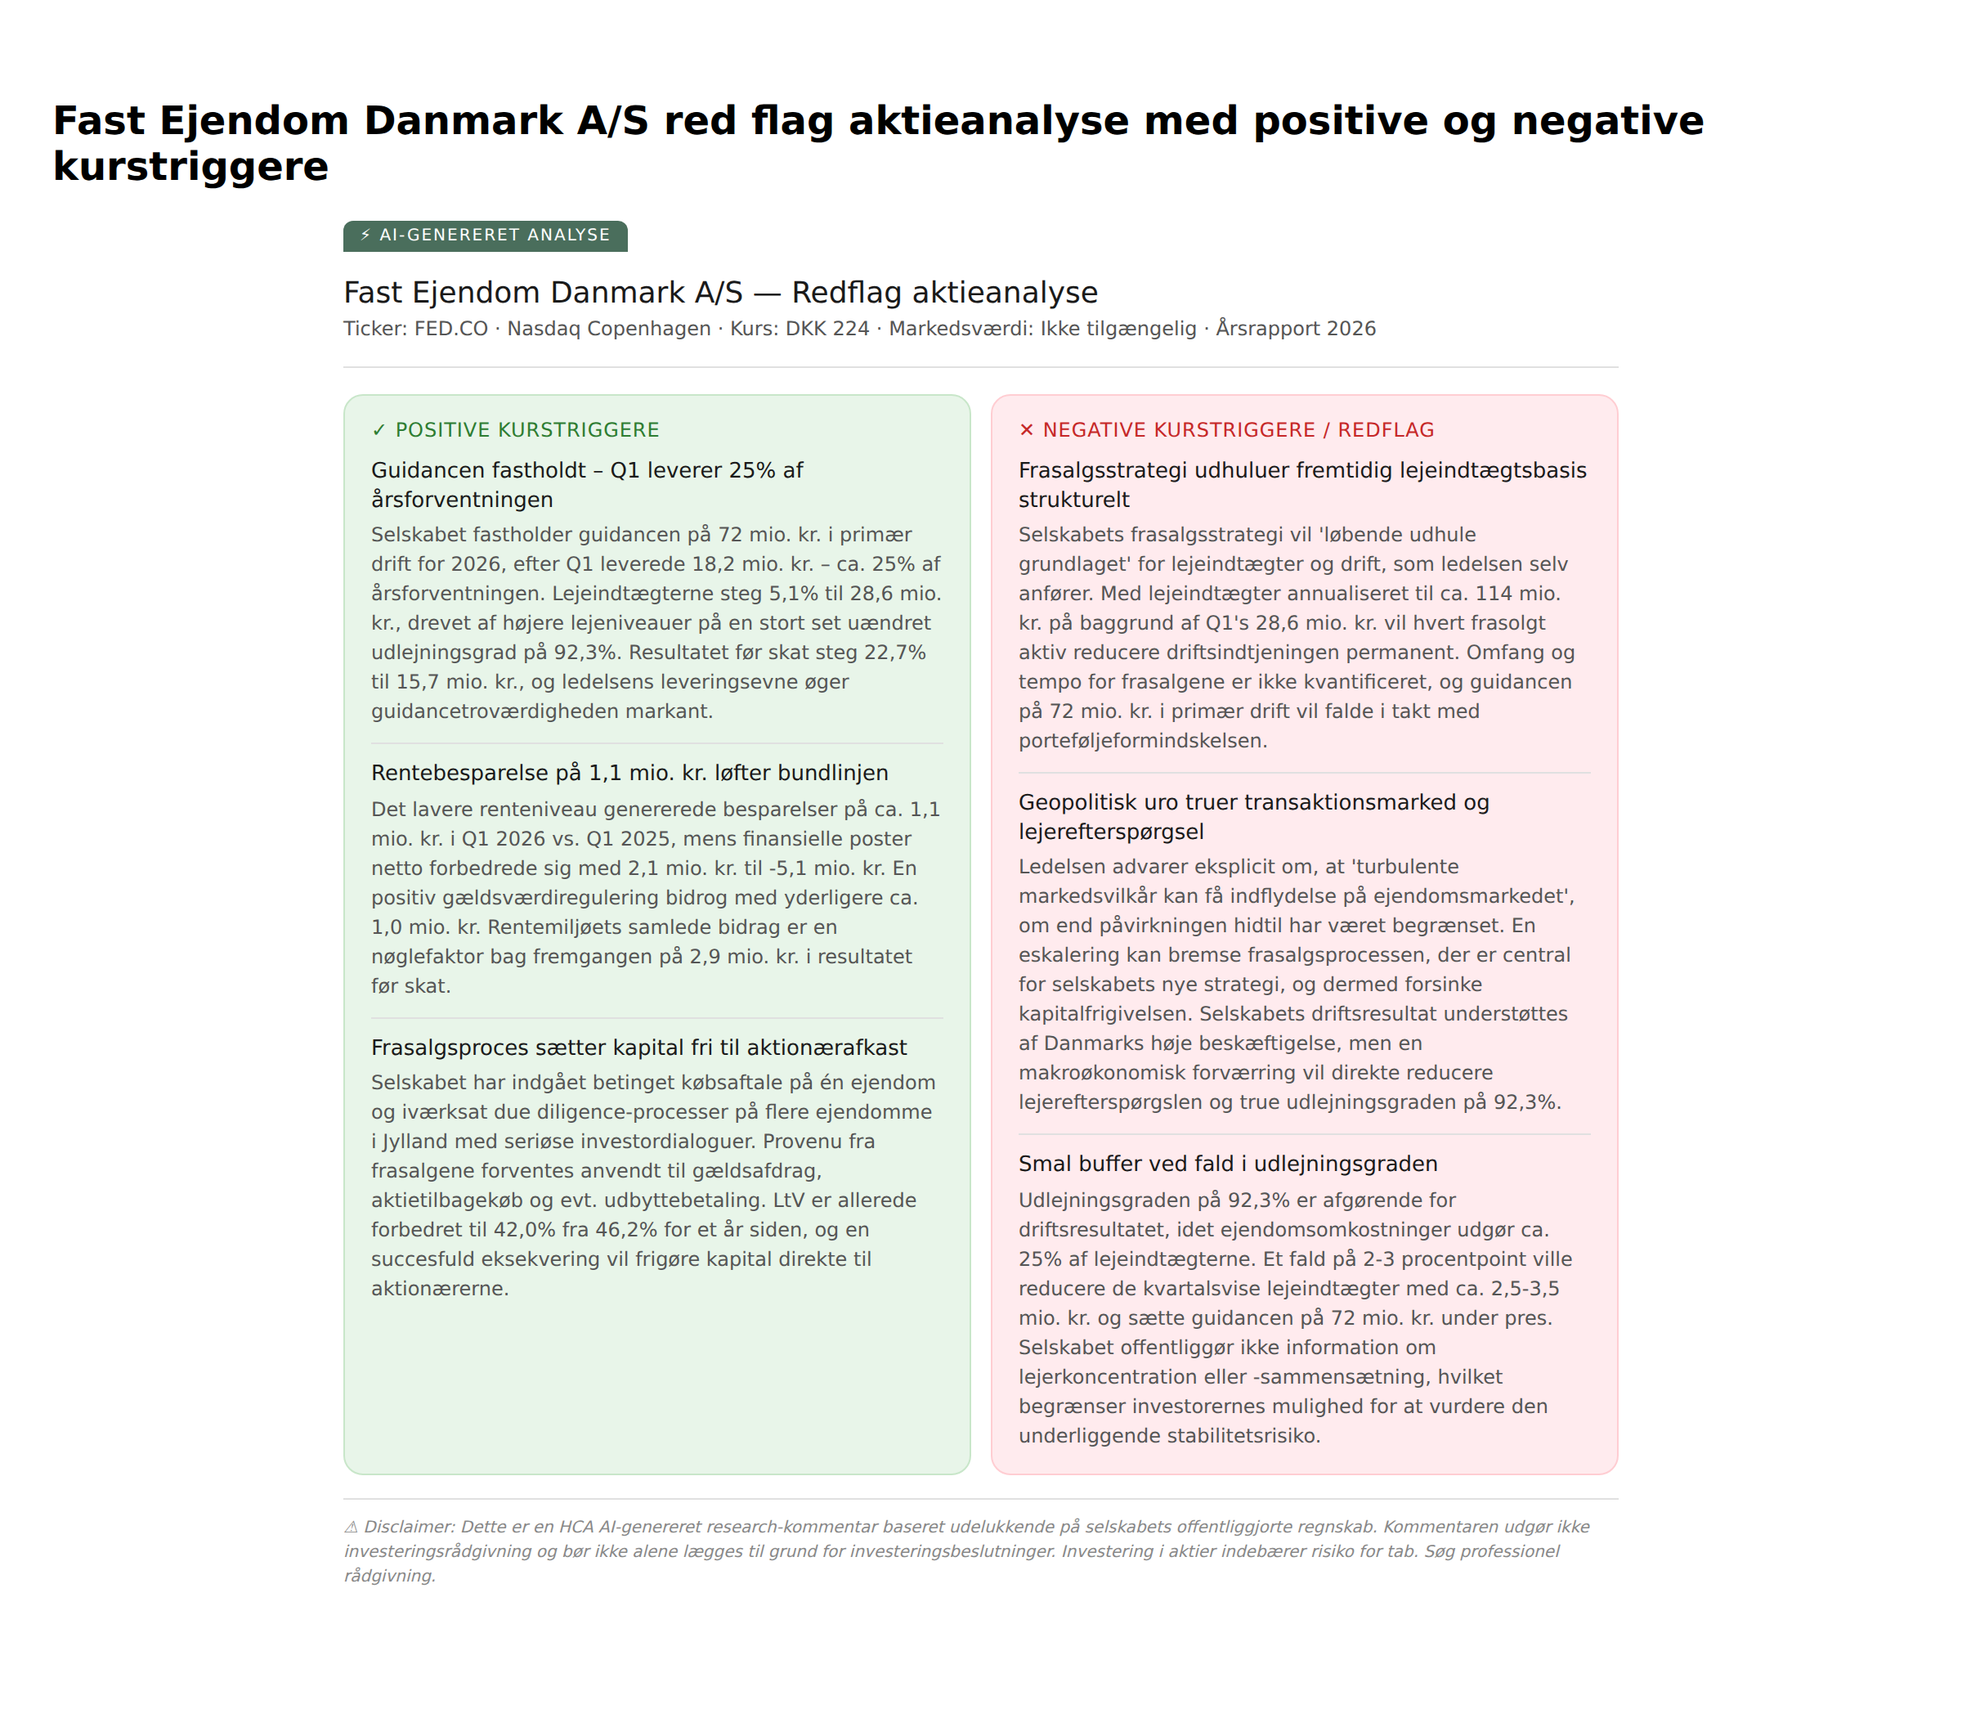
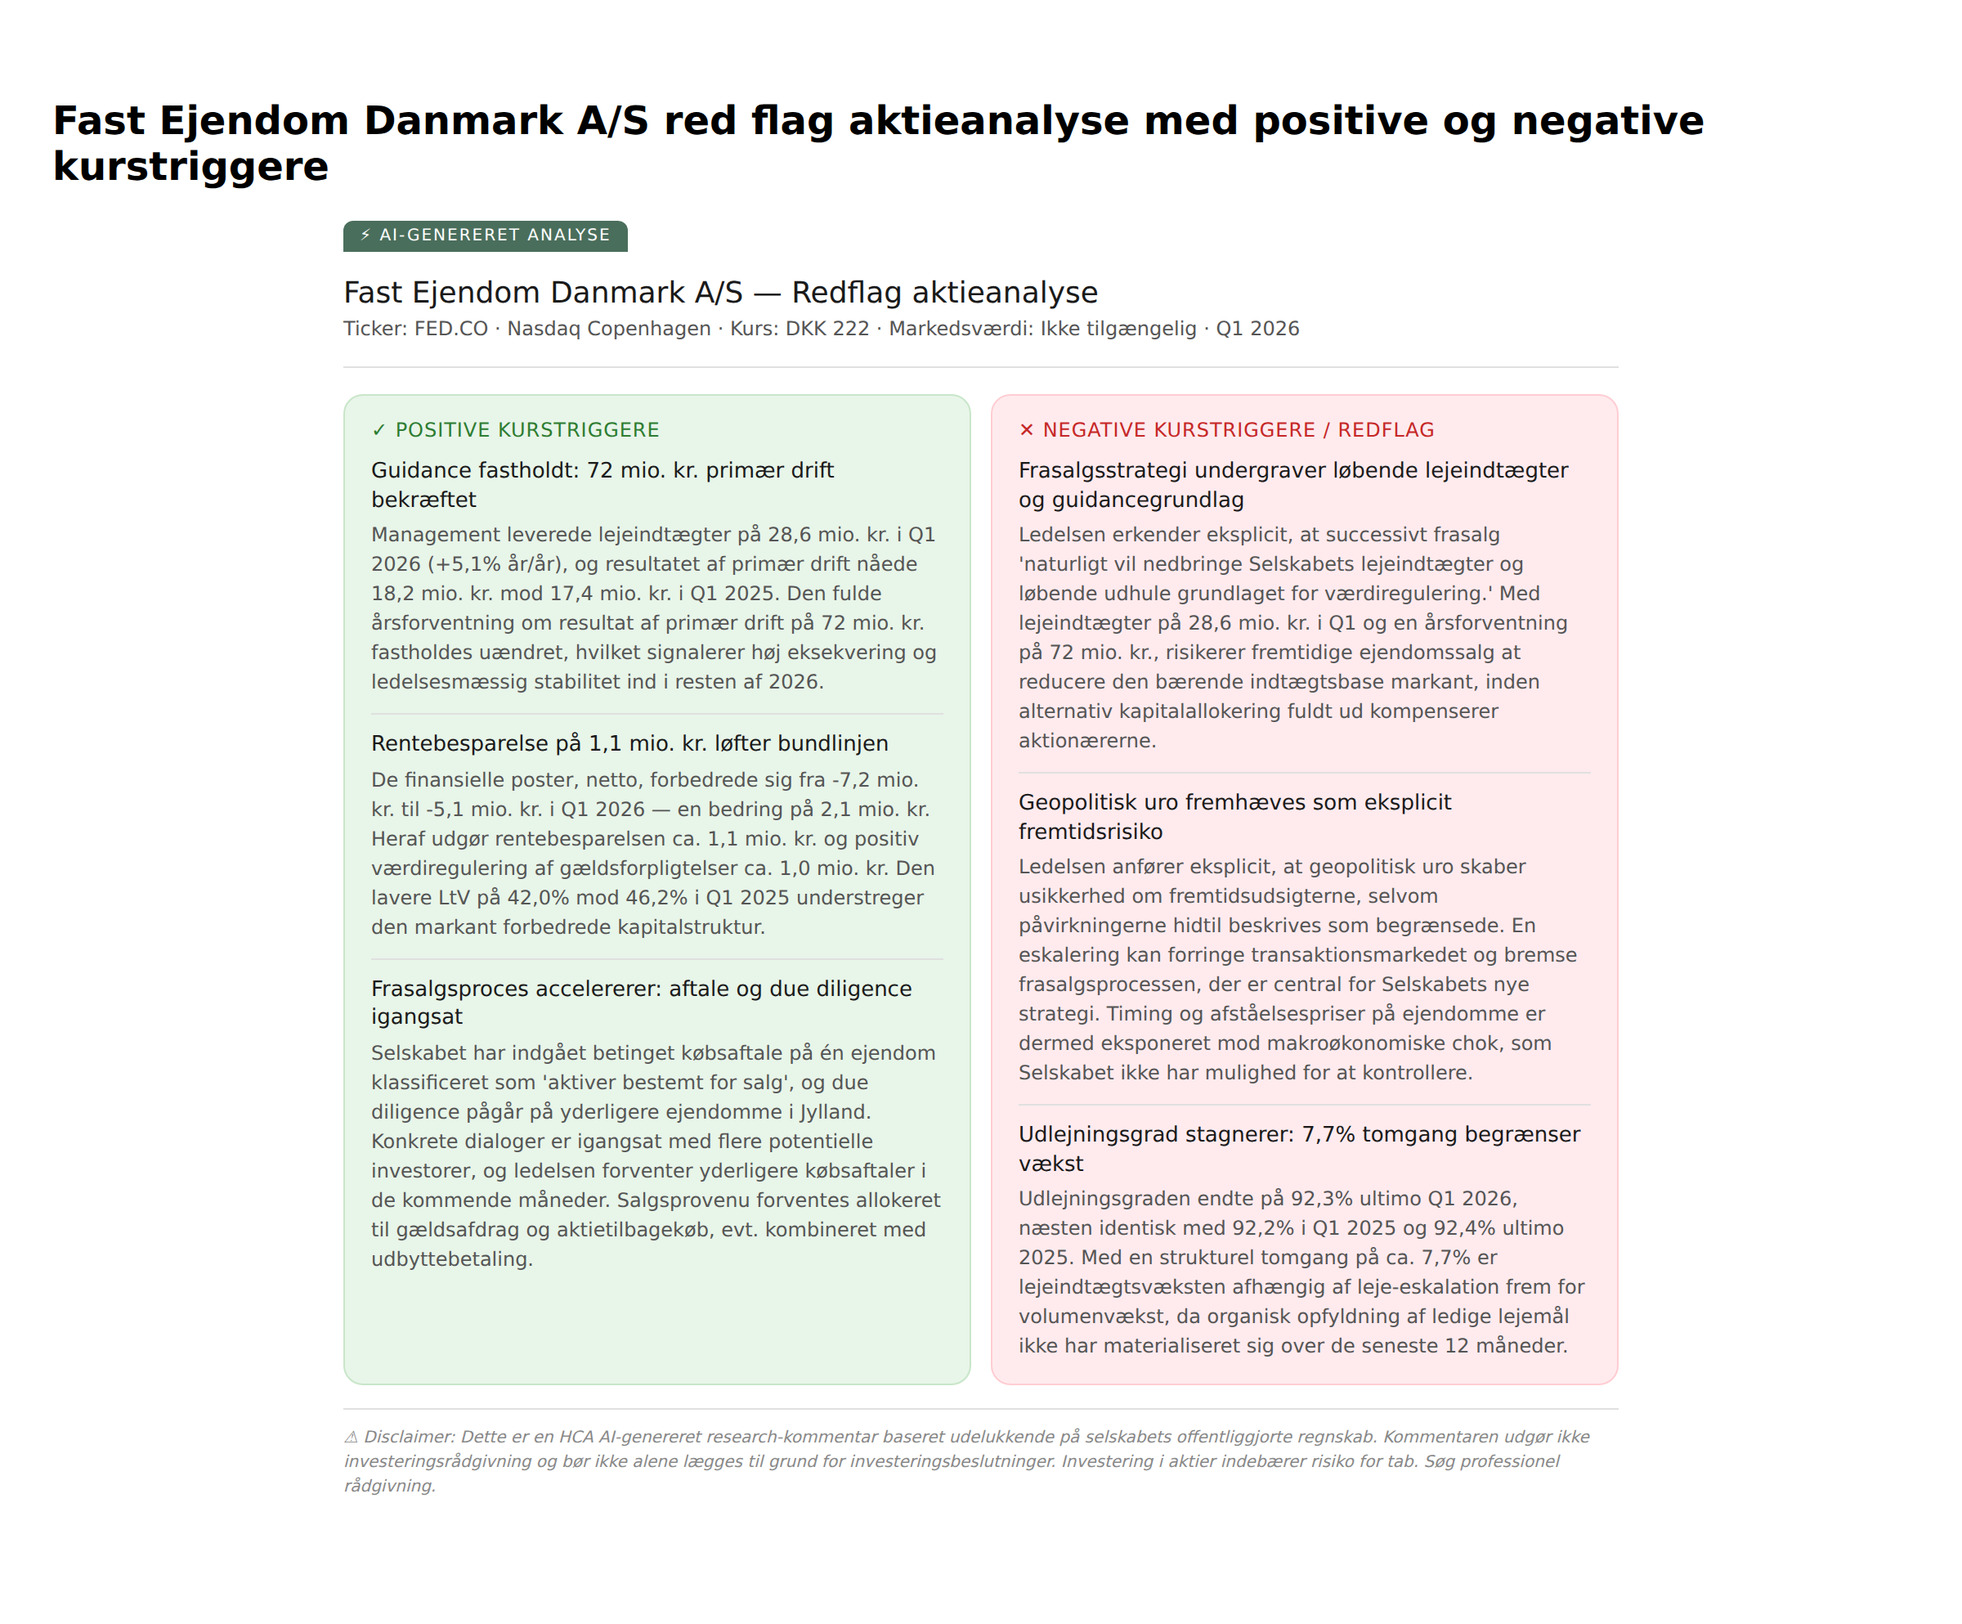
redflag: 2026-04-23 (1 releases)
Fast Ejendom Danmark A/S (FED.CO) — Q1 2026 delårsrapport.

https://claude.ai/code/session_01FcqMH7NUCzhGjX6XhUJPYg

Changed region(s): [[0.0312, 0.0624, 0.875, 0.9366]]

diff --git a/output/2026-04-23/FED_CO_redflag_2026-04-23.html b/output/2026-04-23/FED_CO_redflag_2026-04-23.html
@@ -1,0 +1,92 @@
+<h2 class="sr-only">Fast Ejendom Danmark A/S red flag aktieanalyse med positive og negative kurstriggere</h2>
+<style>
+  .rf-wrap { max-width: 780px; margin: 0 auto; font-family: var(--font-sans); padding: 1rem 0; }
+  .rf-badge { display: inline-block; background: #4a6e5c; color: #fff; font-size: 10px; font-weight: 500; letter-spacing: 1px; text-transform: uppercase; padding: 4px 10px; border-radius: var(--border-radius-md) var(--border-radius-md) 0 0; }
+  .rf-header { padding: 10px 0 14px; border-bottom: 1px solid var(--color-border-tertiary); margin-bottom: 16px; }
+  .rf-header h1 { font-size: 18px; font-weight: 500; color: var(--color-text-primary); margin: 4px 0 2px; line-height: 1.3; }
+  .rf-sub { font-size: 12px; color: var(--color-text-secondary); line-height: 1.4; }
+  .rf-cols { display: grid; grid-template-columns: 1fr 1fr; gap: 12px; }
+  @media (max-width: 540px) { .rf-cols { grid-template-columns: 1fr; } }
+  .rf-card { border-radius: var(--border-radius-lg); padding: 14px 16px; border: 0.5px solid; }
+  .rf-card.pos { background: var(--color-background-success); border-color: var(--color-border-success); }
+  .rf-card.neg { background: var(--color-background-danger); border-color: var(--color-border-danger); }
+  .rf-card-title { font-size: 12px; font-weight: 500; text-transform: uppercase; letter-spacing: .04em; margin-bottom: 10px; }
+  .rf-card.pos .rf-card-title { color: var(--color-text-success); }
+  .rf-card.neg .rf-card-title { color: var(--color-text-danger); }
+  .rf-item { margin-bottom: 10px; border-bottom: 0.5px solid var(--color-border-tertiary); padding-bottom: 10px; }
+  .rf-item:last-child { margin-bottom: 0; border-bottom: none; padding-bottom: 0; }
+  .rf-item-head { font-size: 13px; font-weight: 500; color: var(--color-text-primary); margin-bottom: 3px; line-height: 1.35; }
+  .rf-item-body { font-size: 12px; color: var(--color-text-secondary); line-height: 1.5; }
+  .rf-consensus { border-top: 1px solid var(--color-border-tertiary); margin-top: 18px; padding-top: 14px; }
+  .rf-bottom-label { font-size: 12px; font-weight: 500; color: var(--color-text-primary); margin-bottom: 8px; }
+  .rf-consensus-table { width: 100%; border-collapse: collapse; font-size: 12px; margin-bottom: 10px; }
+  .rf-consensus-table th { text-align: left; font-weight: 500; color: var(--color-text-secondary); border-bottom: 1px solid var(--color-border-tertiary); padding: 4px 6px; }
+  .rf-consensus-table td { padding: 4px 6px; color: var(--color-text-primary); border-bottom: 1px solid var(--color-border-tertiary); }
+  .rf-consensus-table td.rf-num { text-align: right; font-variant-numeric: tabular-nums; }
+  .rf-verdict-beat { color: #3d7a56; font-weight: 500; }
+  .rf-verdict-miss { color: #a03030; font-weight: 500; }
+  .rf-verdict-inline { color: var(--color-text-secondary); }
+  .rf-consensus-kommentar { font-size: 12px; color: var(--color-text-secondary); line-height: 1.6; margin-top: 6px; }
+  .rf-consensus-src { font-size: 10px; color: var(--color-text-tertiary); margin-top: 6px; }
+  .rf-consensus-src a { color: inherit; }
+  .rf-disc { border-top: 1px solid var(--color-border-tertiary); margin-top: 14px; padding-top: 10px; }
+  .rf-disc p { font-size: 10px; color: var(--color-text-tertiary); line-height: 1.5; font-style: italic; }
+  @media (prefers-color-scheme: dark) {
+    .rf-badge { background: #3d5c4c; }
+    .rf-verdict-beat { color: #5dc98a; }
+    .rf-verdict-miss { color: #e06060; }
+  }
+</style>
+<div class="rf-wrap">
+  <div class="rf-badge">&#9889; AI-genereret analyse</div>
+  <div class="rf-header">
+    <h1>Fast Ejendom Danmark A/S &#8212; Redflag aktieanalyse</h1>
+    <div class="rf-sub">Ticker: FED.CO &#183; Nasdaq Copenhagen &#183; Kurs: DKK 222 &#183; Markedsv&aelig;rdi: Ikke tilgængelig &#183; Q1 2026</div>
+  </div>
+
+  <div class="rf-cols">
+    <div class="rf-card pos">
+      <div class="rf-card-title">&#10003; Positive kurstriggere</div>
+
+      <div class="rf-item">
+        <div class="rf-item-head">Guidance fastholdt: 72 mio. kr. primær drift bekræftet</div>
+        <div class="rf-item-body">Management leverede lejeindtægter på 28,6 mio. kr. i Q1 2026 (+5,1% år/år), og resultatet af primær drift nåede 18,2 mio. kr. mod 17,4 mio. kr. i Q1 2025. Den fulde årsforventning om resultat af primær drift på 72 mio. kr. fastholdes uændret, hvilket signalerer høj eksekvering og ledelsesmæssig stabilitet ind i resten af 2026.</div>
+      </div>
+
+      <div class="rf-item">
+        <div class="rf-item-head">Rentebesparelse på 1,1 mio. kr. løfter bundlinjen</div>
+        <div class="rf-item-body">De finansielle poster, netto, forbedrede sig fra -7,2 mio. kr. til -5,1 mio. kr. i Q1 2026 — en bedring på 2,1 mio. kr. Heraf udgør rentebesparelsen ca. 1,1 mio. kr. og positiv værdiregulering af gældsforpligtelser ca. 1,0 mio. kr. Den lavere LtV på 42,0% mod 46,2% i Q1 2025 understreger den markant forbedrede kapitalstruktur.</div>
+      </div>
+
+      <div class="rf-item">
+        <div class="rf-item-head">Frasalgsproces accelererer: aftale og due diligence igangsat</div>
+        <div class="rf-item-body">Selskabet har indgået betinget købsaftale på én ejendom klassificeret som 'aktiver bestemt for salg', og due diligence pågår på yderligere ejendomme i Jylland. Konkrete dialoger er igangsat med flere potentielle investorer, og ledelsen forventer yderligere købsaftaler i de kommende måneder. Salgsprovenu forventes allokeret til gældsafdrag og aktietilbagekøb, evt. kombineret med udbyttebetaling.</div>
+      </div>
+    </div>
+
+    <div class="rf-card neg">
+      <div class="rf-card-title">&#10005; Negative kurstriggere / redflag</div>
+
+      <div class="rf-item">
+        <div class="rf-item-head">Frasalgsstrategi undergraver løbende lejeindtægter og guidancegrundlag</div>
+        <div class="rf-item-body">Ledelsen erkender eksplicit, at successivt frasalg 'naturligt vil nedbringe Selskabets lejeindtægter og løbende udhule grundlaget for værdiregulering.' Med lejeindtægter på 28,6 mio. kr. i Q1 og en årsforventning på 72 mio. kr., risikerer fremtidige ejendomssalg at reducere den bærende indtægtsbase markant, inden alternativ kapitalallokering fuldt ud kompenserer aktionærerne.</div>
+      </div>
+
+      <div class="rf-item">
+        <div class="rf-item-head">Geopolitisk uro fremhæves som eksplicit fremtidsrisiko</div>
+        <div class="rf-item-body">Ledelsen anfører eksplicit, at geopolitisk uro skaber usikkerhed om fremtidsudsigterne, selvom påvirkningerne hidtil beskrives som begrænsede. En eskalering kan forringe transaktionsmarkedet og bremse frasalgsprocessen, der er central for Selskabets nye strategi. Timing og afståelsespriser på ejendomme er dermed eksponeret mod makroøkonomiske chok, som Selskabet ikke har mulighed for at kontrollere.</div>
+      </div>
+
+      <div class="rf-item">
+        <div class="rf-item-head">Udlejningsgrad stagnerer: 7,7% tomgang begrænser vækst</div>
+        <div class="rf-item-body">Udlejningsgraden endte på 92,3% ultimo Q1 2026, næsten identisk med 92,2% i Q1 2025 og 92,4% ultimo 2025. Med en strukturel tomgang på ca. 7,7% er lejeindtægtsvæksten afhængig af leje-eskalation frem for volumenvækst, da organisk opfyldning af ledige lejemål ikke har materialiseret sig over de seneste 12 måneder.</div>
+      </div>
+    </div>
+  </div>
+
+
+
+  <div class="rf-disc">
+    <p>&#9888; Disclaimer: Dette er en HCA AI-genereret research-kommentar baseret udelukkende p&aring; selskabets offentliggjorte regnskab. Kommentaren udg&oslash;r ikke investeringsr&aring;dgivning og b&oslash;r ikke alene l&aelig;gges til grund for investeringsbeslutninger. Investering i aktier indeb&aelig;rer risiko for tab. S&oslash;g professionel r&aring;dgivning.</p>
+  </div>
+</div>

diff --git a/output/2026-04-23/_run.md b/output/2026-04-23/_run.md
@@ -1,0 +1,66 @@
+# redflag run 2026-04-23T15:11:44.637Z
+
+- Status: OK
+- Started: 2026-04-23T15:11:44.637Z
+- Finished: 2026-04-23T15:13:08.633Z
+- News items fetched: 50
+- Earnings matches (≤25h, keywords): 1
+- Successful tickers: 1
+- Failed tickers: 0
+
+## Successes
+- FED.CO — Fast Ejendom Danmark A/S (Q1 2026) → /home/user/redflag-manual/output/2026-04-23/FED_CO_redflag_2026-04-23.png
+
+## Failures
+(none)
+
+## Scanned but skipped
+- "Investeringsselskabet Artha Optimum A/S - forløb af ordinær generalforsamling" — Investeringsselskabet Artha Optimum A/S: no keyword match
+- "Referat fra generalforsamling" — Prime Office A/S: no keyword match
+- "Forløb af ordinær generalforsamling, Investeringsforeningen Maj Invest" — Investeringsforeningen Maj Invest: no keyword match
+- "Storaktionærmeddelelse" — SJF Bank A/S: no keyword match
+- "Opdateret prospekt for Investeringsforeningen SDG Invest" — Investeringsforeningen SDG Invest: no keyword match
+- "Forløb af ordinær generalforsamling 2026 i Investeringsforeningen SDG Invest " — Investeringsforeningen SDG Invest: no keyword match
+- "Vestas - Q1 2026 conference call" — Vestas Wind Systems A/S: no keyword match
+- "Transactions in connection with share buy-back programme 16-22 April 2026" — Vestas Wind Systems A/S: no keyword match
+- "Investeringsforeningen BankInvest - Prospektopdatering " — Investeringsforeningen BankInvest: no keyword match
+- "Fixing of coupon rates - Nykredit Realkredit A/S" — Nykredit Realkredit A/S: no keyword match
+- "Anmodning om afnotering af Aseteks aktier fra Nasdaq Copenhagen A/S" — Asetek A/S: no keyword match
+- "Request for delisting of Asetek's shares from Nasdaq Copenhagen A/S" — Asetek A/S: no keyword match
+- "Passing of Columbus A/S' Annual General Meeting and subsequent constitution of the Board of Directors" — Columbus A/S: no keyword match
+- "Indkaldelse til ekstraordinær generalforsamling" — Kapitalforeningen Accunia Invest: no keyword match
+- "Q1, 2026" — Glunz & Jensen Holding A/S: no keyword match
+- "Indberetning af ledende medarbejderes og disses nærtståendes transaktioner med Dampskibsselskabet NORDEN A/S' aktier i forbindelse med aktietilbagekøbsprogram" — NORDEN: no keyword match
+- "Notification of managers' and closely related parties' transactions with Dampskibsselskabet NORDEN A/S' shares in connection with share buy-back program" — NORDEN: no keyword match
+- "BULLETIN FROM THE ANNUAL GENERAL MEETING IN BOOZT AB ON 23 APRIL 2026" — Boozt AB: no keyword match
+- "CQXA Holdings Pte. Ltd. har offentliggjort sin meddelelse om tvangsindløsning af Asetek aktier" — Asetek A/S: no keyword match
+- "CQXA Holdings Pte. Ltd. has published its notice of compulsory acquisition of Asetek shares" — Asetek A/S: no keyword match
+- "Liquidity Provider Agreement with ABG Sundal Collier ASA" — Gabriel Holding A/S: no keyword match
+- "Transactions in Zealand Pharma shares and/or related securities by persons discharging managerial responsibilities and/or their closely associated persons" — Zealand Pharma A/S: no keyword match
+- "Coloplast A/S - H1 2025/26 Earnings Release - Invitation for conference call on 12 May 2026 at 11:00 CEST " — Coloplast A/S: no keyword match
+- "Reporting of transactions made by persons discharging managerial responsibilities and persons closely associated with them in Better Collective A/S' shares" — Better Collective A/S: no keyword match
+- "Forløb af ordinær generalforsamling." — Papirfabrikken Invest A/S: no keyword match
+- "Referat af ordinær generalforsamling" — Fast Ejendom Danmark: no keyword match
+- "GreenMobility A/S - Results of the Annual General Meeting 2026" — GreenMobility A/S: no keyword match
+- "Øresundsbro Konsortiet 1st Quarter Results" — Øresundsbro Konsortiet: no keyword match
+- "Forløb af ordinær generalforsamling i Agat Ejendomme A/S den 22. april 2026" — Agat Ejendomme A/S: no keyword match
+- "Møns Bank udsteder Senior Non-Preferred obligationer 65 mio. kr." — Møns Bank A/S: no keyword match
+- "Decisions of Sampo plc's Annual General Meeting" — Sampo: no keyword match
+- "Placeringsforeningen Nykredit Invest - Forløb af ordinær generalforsamling" — Placeringsforeningen Nykredit Invest (Kapitalforening): no keyword match
+- "Investeringsforeningen Nykredit Invest Balance - Forløb af ordinær generalforsamling" — Investeringsforeningen Nykredit Invest Balance: no keyword match
+- "Investeringsforeningen Nykredit Invest - Forløb af ordinær generalforsamling" — Investeringsforeningen Nykredit Invest: no keyword match
+- "Indberetning af ledende medarbejderes og disse nærtståendes transaktioner med NewCap Holding A/S aktier" — Newcap Holding: no keyword match
+- "Forløb af ordinær generalforsamling, Investeringsforeningen SEBinvest" — SEBinvest: outside 25h lookback
+- "Fixing of coupon rates - Nykredit Realkredit A/S" — Nykredit Realkredit A/S: outside 25h lookback
+- "Storaktionærmeddelelse" — Investeringsselskabet af 3. november 2025 A/S: outside 25h lookback
+- "Share buyback program (April 15 - April 21, 2026)" — Better Collective A/S: outside 25h lookback
+- "Forløb af ordinær generalforsamling, Investeringsforeningen Wealth Invest" — Investeringsforeningen Wealth Invest: outside 25h lookback
+- "Forløb af ordinær generalforsamling, Kapitalforeningen Wealth Invest" — Kapitalforeningen Wealth Invest: outside 25h lookback
+- "Change to North Media's Group Executive Board" — North Media A/S: outside 25h lookback
+- "Result of the auction of 2.25 per cent DGB 2035 G and 0.25 per cent DGB 2052" — Danmarks Nationalbank: outside 25h lookback
+- "Notification of managers' and closely related parties' transactions with Dampskibsselskabet NORDEN A/S' shares in connection with share buy-back program" — NORDEN: outside 25h lookback
+- "Indberetning af ledende medarbejderes og disses nærtståendes transaktioner med Dampskibsselskabet NORDEN A/S' aktier i forbindelse med aktietilbagekøbsprogram" — NORDEN: outside 25h lookback
+- "Nr. 38, 2026 - Auktioner over obligationer i Nordea Kredit" — Nordea Kredit Realkreditaktieselskab: outside 25h lookback
+- "Nr. 38, 2026 - Auctions of covered mortgage credit bonds in Nordea Kredit" — Nordea Kredit Realkreditaktieselskab: outside 25h lookback
+- "Offentliggørelse af prospekt for Investeringsforeningen Nordea Invest" — Nordea Invest: outside 25h lookback
+- "Prospekt og central information for Independent Invest II" — Værdipapirfonden Independent Invest II: outside 25h lookback
